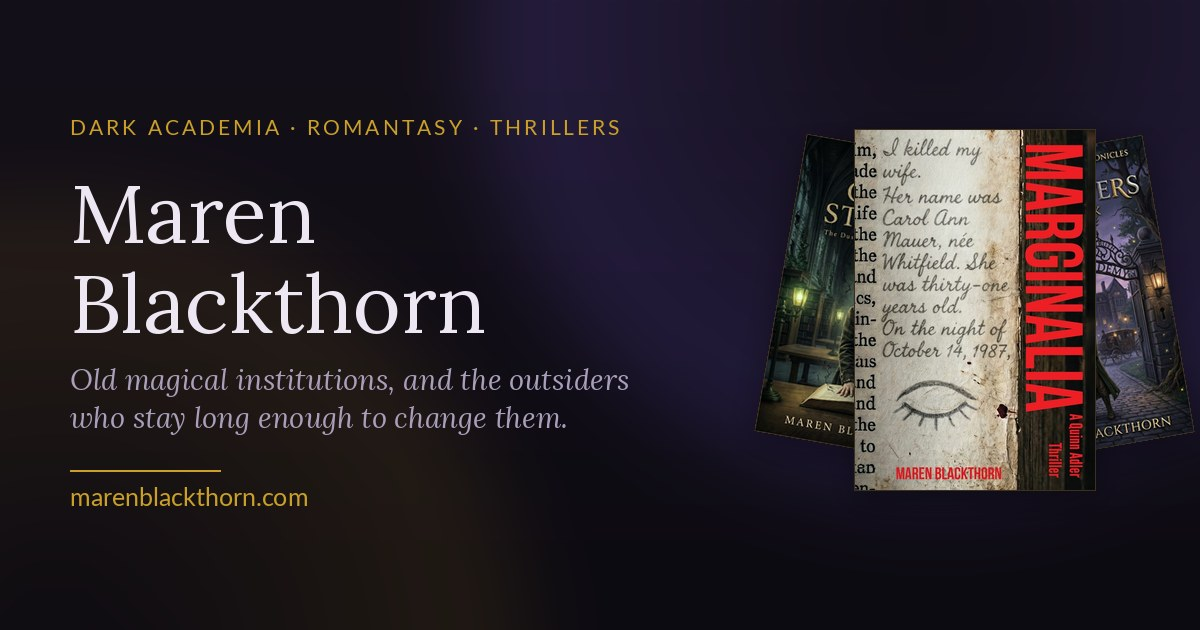
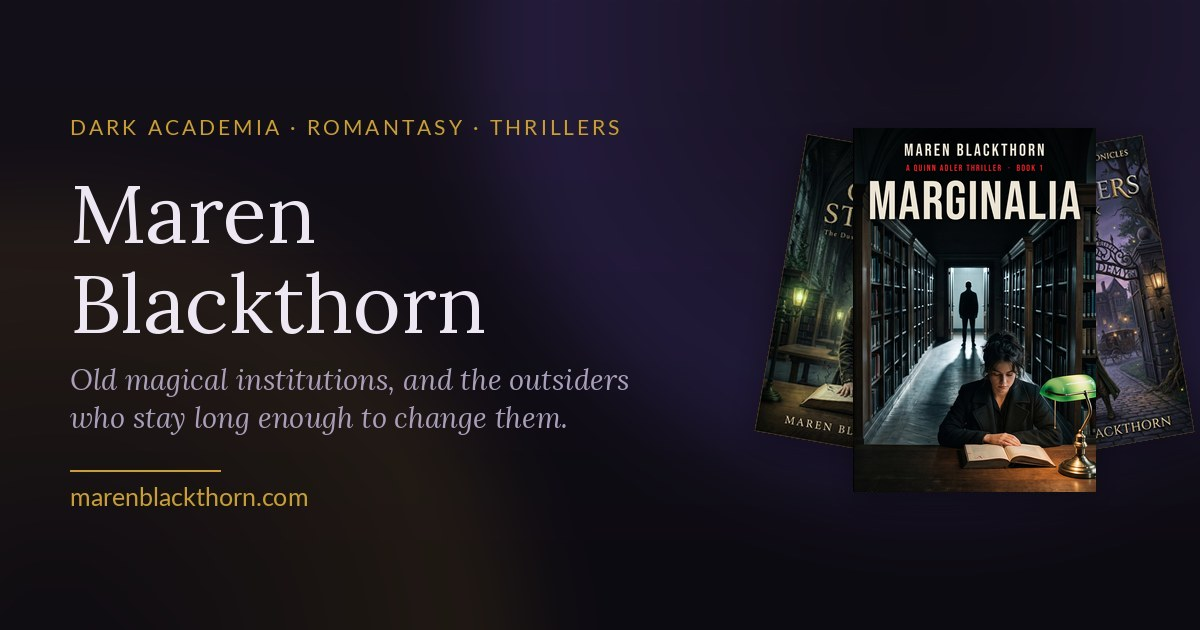
Homepage + 404: new Quinn Adler covers, new share image

Changed region(s): [[0.7092, 0.181, 0.925, 0.7841]]

diff --git a/index.html b/index.html
@@ -13,11 +13,11 @@
 <meta property="og:title" content="Maren Blackthorn — Dark Academia Romantasy &amp; Thriller Author">
 <meta property="og:description" content="Old magical institutions. The outsiders who stay long enough to change them.">
 <meta property="og:type" content="website">
-<meta property="og:image" content="https://marenblackthorn.com/og-image.jpg">
+<meta property="og:image" content="https://marenblackthorn.com/og-image.jpg?v=2">
 <meta property="og:image:width" content="1200">
 <meta property="og:image:height" content="630">
 <meta property="og:image:alt" content="Maren Blackthorn — dark academia romantasy and thrillers">
-<meta name="twitter:image" content="https://marenblackthorn.com/og-image.jpg">
+<meta name="twitter:image" content="https://marenblackthorn.com/og-image.jpg?v=2">
 <meta name="twitter:title" content="Maren Blackthorn — Dark Academia Romantasy &amp; Thriller Author">
 <meta name="twitter:description" content="Old magical institutions. The outsiders who stay long enough to change them.">
 
@@ -366,7 +366,7 @@
   <div class="wrap">
     <div class="featured">
       <a class="cover has-img" href="https://www.amazon.com/dp/B0H5GBYZPB?maas=maas_adg_246DB6998A298DE3698580AB44844212_afap_abs&ref_=aa_maas&tag=maas" target="_blank" rel="noopener">
-        <img src="covers/marginalia.jpg" alt="Marginalia cover" decoding="async">
+        <img src="covers/marginalia.jpg?v=2" alt="Marginalia cover" decoding="async">
       </a>
       <div>
         <div class="series">Now Available · Quinn Adler Thrillers</div>
@@ -396,7 +396,7 @@
     <div class="free-two">
     <div class="featured">
       <div class="cover has-img">
-        <img src="covers/episode-zero.jpg" alt="Episode Zero: The Case That Started It All — a free Adler Files prequel by Maren Blackthorn" decoding="async">
+        <img src="covers/episode-zero.jpg?v=2" alt="Episode Zero: The Case That Started It All — a free Adler Files prequel by Maren Blackthorn" decoding="async">
       </div>
       <div>
         <div class="series">Free Prequel · Quinn Adler Thrillers</div>
@@ -543,7 +543,7 @@
         <div class="stars" role="img" aria-label="5 out of 5 stars">★★★★★</div>
         <blockquote>Calling this a thriller is an understatement. This book will grasp hold of you and it doesn't let go.</blockquote>
         <figcaption class="src">
-          <img src="covers/marginalia.jpg" alt="Marginalia cover" loading="lazy" decoding="async" width="500" height="750">
+          <img src="covers/marginalia.jpg?v=2" alt="Marginalia cover" loading="lazy" decoding="async" width="500" height="750">
           <div class="who"><b>Nicole Mason</b>on <em>Marginalia</em> · <a href="/quinn-adler/">Quinn Adler Thrillers</a></div>
         </figcaption>
       </figure>
@@ -591,7 +591,7 @@
 
         <article class="book">
           <a class="cover has-img" href="#freebook">
-            <img src="covers/episode-zero.jpg" alt="Episode Zero: The Case That Started It All cover" loading="lazy" decoding="async">
+            <img src="covers/episode-zero.jpg?v=2" alt="Episode Zero: The Case That Started It All cover" loading="lazy" decoding="async">
           </a>
           <h4>Episode Zero</h4>
           <div class="meta">Quinn Adler Thrillers · Free prequel short story</div>
@@ -601,7 +601,7 @@
 
         <article class="book">
           <a class="cover has-img" href="https://www.amazon.com/dp/B0H5GBYZPB?maas=maas_adg_246DB6998A298DE3698580AB44844212_afap_abs&ref_=aa_maas&tag=maas" target="_blank" rel="noopener">
-            <img src="covers/marginalia.jpg" alt="Marginalia cover" loading="lazy" decoding="async">
+            <img src="covers/marginalia.jpg?v=2" alt="Marginalia cover" loading="lazy" decoding="async">
           </a>
           <h4>Marginalia</h4>
           <div class="meta">Quinn Adler Thrillers · Book 1</div>
@@ -611,7 +611,7 @@
 
         <article class="book">
           <a class="cover has-img" href="https://www.amazon.com/dp/B0HDLBTKJR?maas=maas_adg_83206AD9397DE2390DAF00036F38D191_afap_abs&ref_=aa_maas&tag=maas" target="_blank" rel="noopener">
-            <img src="covers/out-of-print.jpg" alt="Out of Print cover" loading="lazy" decoding="async">
+            <img src="covers/out-of-print.jpg?v=2" alt="Out of Print cover" loading="lazy" decoding="async">
           </a>
           <h4>Out of Print</h4>
           <div class="meta">Quinn Adler Thrillers · Book 2</div>
@@ -1019,7 +1019,7 @@
         desc:"Secrets, networks, and records never meant to be read. Begin with the outsider who first finds the margins moving.",
         cta:'<a class="btn btn-primary" href="https://www.amazon.com/dp/B0GWZWVHN1?maas=maas_adg_A43EA89006DBACFD5CBDA05379380278_afap_abs&ref_=aa_maas&tag=maas" target="_blank" rel="noopener">Start with The Other Student →</a><a class="btn btn-ghost bf-link" href="https://dl.bookfunnel.com/jnr47st662" target="_blank" rel="noopener">Free prequel</a>'},
       quinn:{title:"The Quinn Adler Thrillers", verdict:"The Quinn Adler Thrillers are yours",
-        cover:"covers/marginalia.jpg",
+        cover:"covers/marginalia.jpg?v=2",
         desc:"A true-crime obsessive, a ticking clock, and confessions hiding in the margins. Start with Marginalia — or read the free prequel first.",
         cta:'<a class="btn btn-primary" href="https://www.amazon.com/dp/B0H5GBYZPB?maas=maas_adg_246DB6998A298DE3698580AB44844212_afap_abs&ref_=aa_maas&tag=maas" target="_blank" rel="noopener">Buy Marginalia →</a><a class="btn btn-ghost bf-link" href="https://dl.bookfunnel.com/pwyi86wypg" target="_blank" rel="noopener">Free prequel</a>'},
       pyrrhic:{title:"The Pyrrhic Triumph", verdict:"You're built for The Pyrrhic Triumph",

diff --git a/404.html b/404.html
@@ -168,12 +168,12 @@
     </div>
     <div class="grid">
         <article class="book">
-          <a class="cover" href="/episode-zero/"><img src="/covers/episode-zero.jpg" alt="Episode Zero cover" loading="lazy"></a>
+          <a class="cover" href="/episode-zero/"><img src="/covers/episode-zero.jpg?v=2" alt="Episode Zero cover" loading="lazy"></a>
           <h4><a href="/episode-zero/">Episode Zero</a></h4>
           <div class="meta">The Quinn Adler Thrillers · Free prequel short story</div>
         </article>
         <article class="book">
-          <a class="cover" href="/marginalia/"><img src="/covers/marginalia.jpg" alt="Marginalia cover" loading="lazy"></a>
+          <a class="cover" href="/marginalia/"><img src="/covers/marginalia.jpg?v=2" alt="Marginalia cover" loading="lazy"></a>
           <h4><a href="/marginalia/">Marginalia</a></h4>
           <div class="meta">The Quinn Adler Thrillers · Book 1</div>
         </article>
